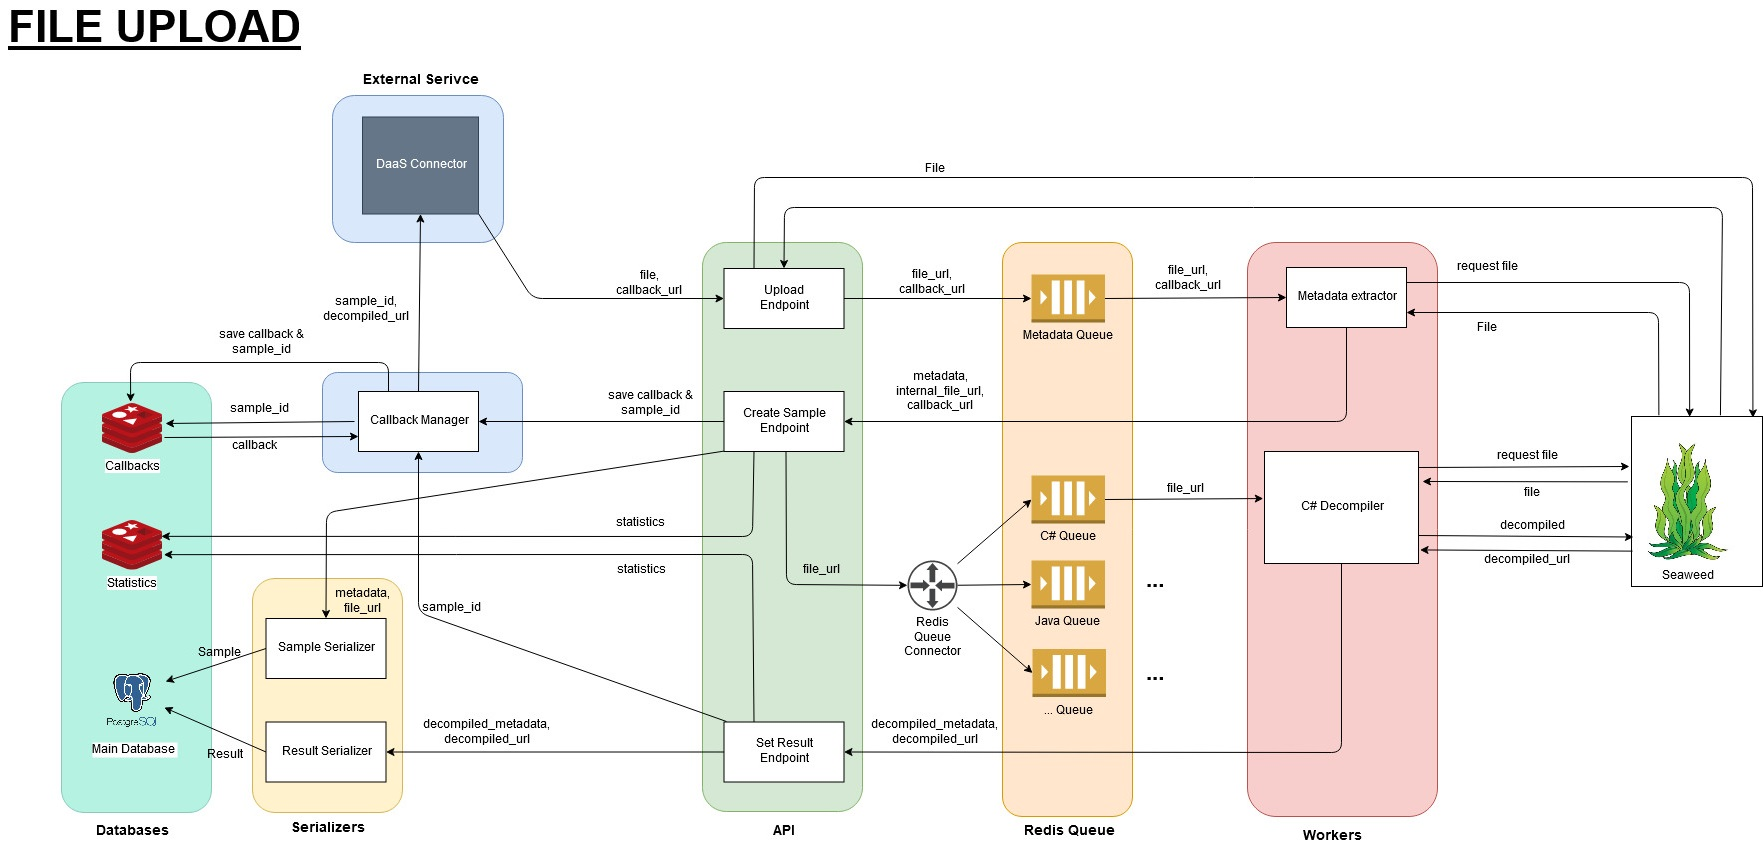
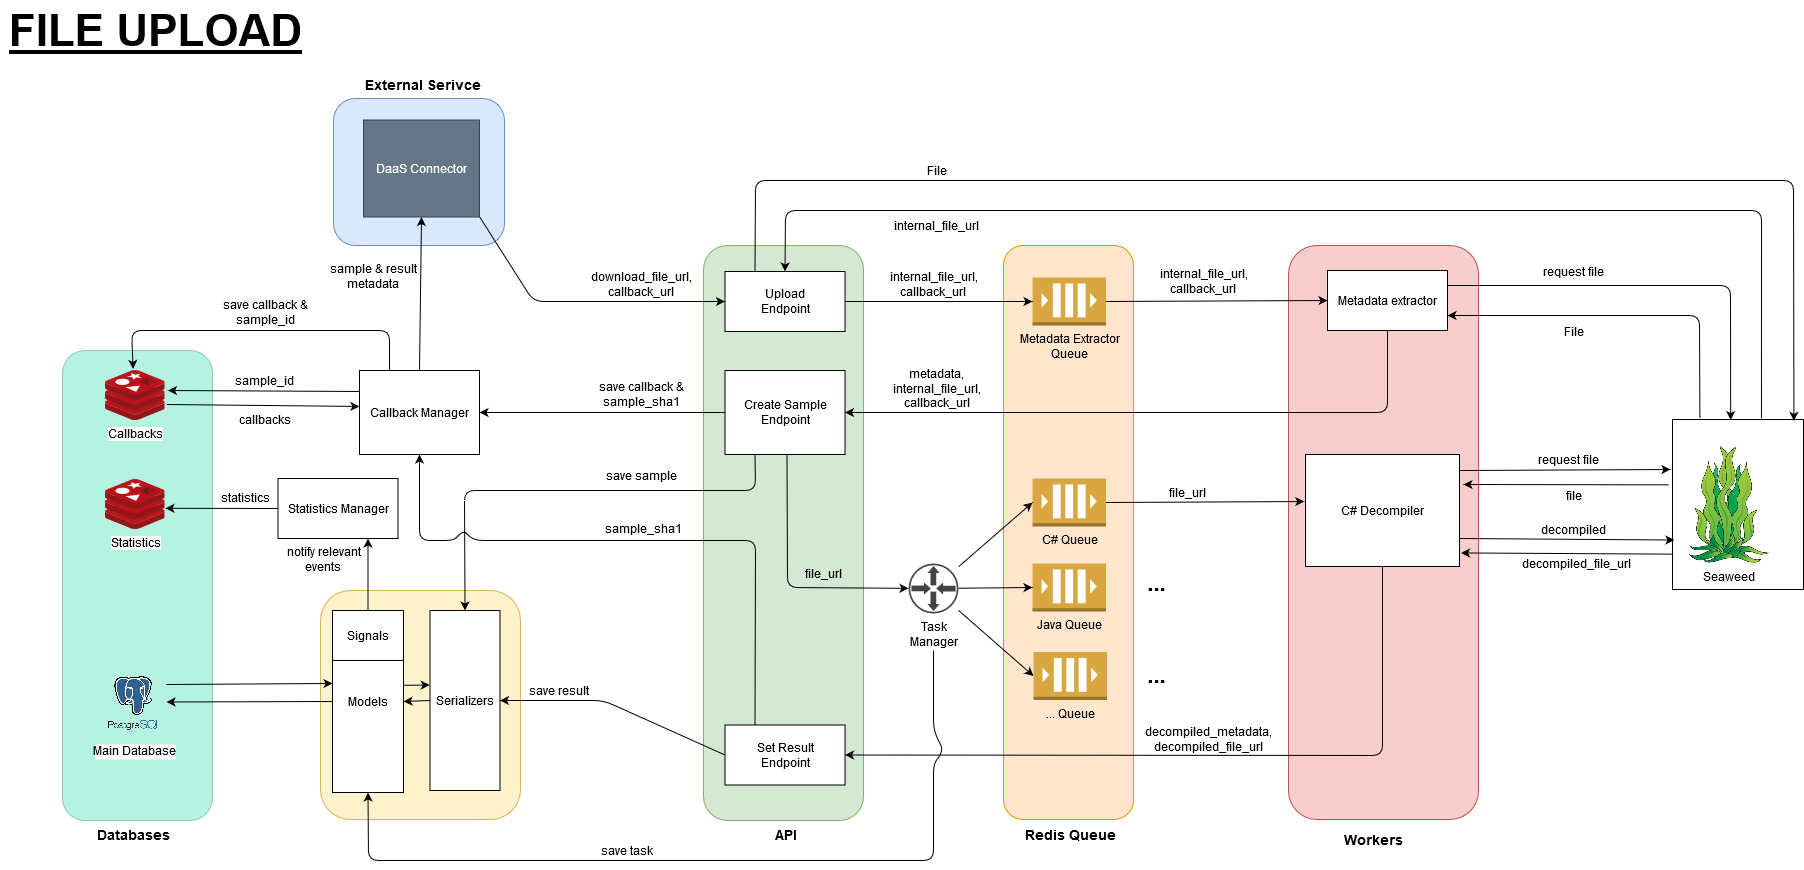
DAAS-152 - Update file upload and url upload diagrams (#26)
* updated file and url upload images

* Update README.md

* Update README.md

diff --git a/README.md b/README.md
@@ -4,6 +4,7 @@
 # Index
 - [What is DaaS?](#what-is-daas)
 - [Summarized features](#summarized-features)
+- [What is happening behind scenes](#what_is_happening_behind_sceness)
 - [Screenshots](#screenshots)
 - [About code and releases](#about-code-and-releases)
 - [How to install](#how-to-install)
@@ -46,6 +47,15 @@ Although the tool's modular architecture allows you to easily create workers for
 - Advanced statistics about decompiled samples.
 - Upload a zip file with tons of samples at the same time.
 - API
+
+
+# What is happening behind scenes
+This section contains two graphics of the most representative and complex use cases of the API. It aims to give the reader a better understanding of how DaaS work.
+For more technical details, go to "documentation/specifications.md".
+
+![File_Upload](documentation/file_upload.jpg?raw=true "File Upload")
+
+![URL_Upload](documentation/url_upload.jpg?raw=true "URL Upload")
 
 
 # Screenshots
